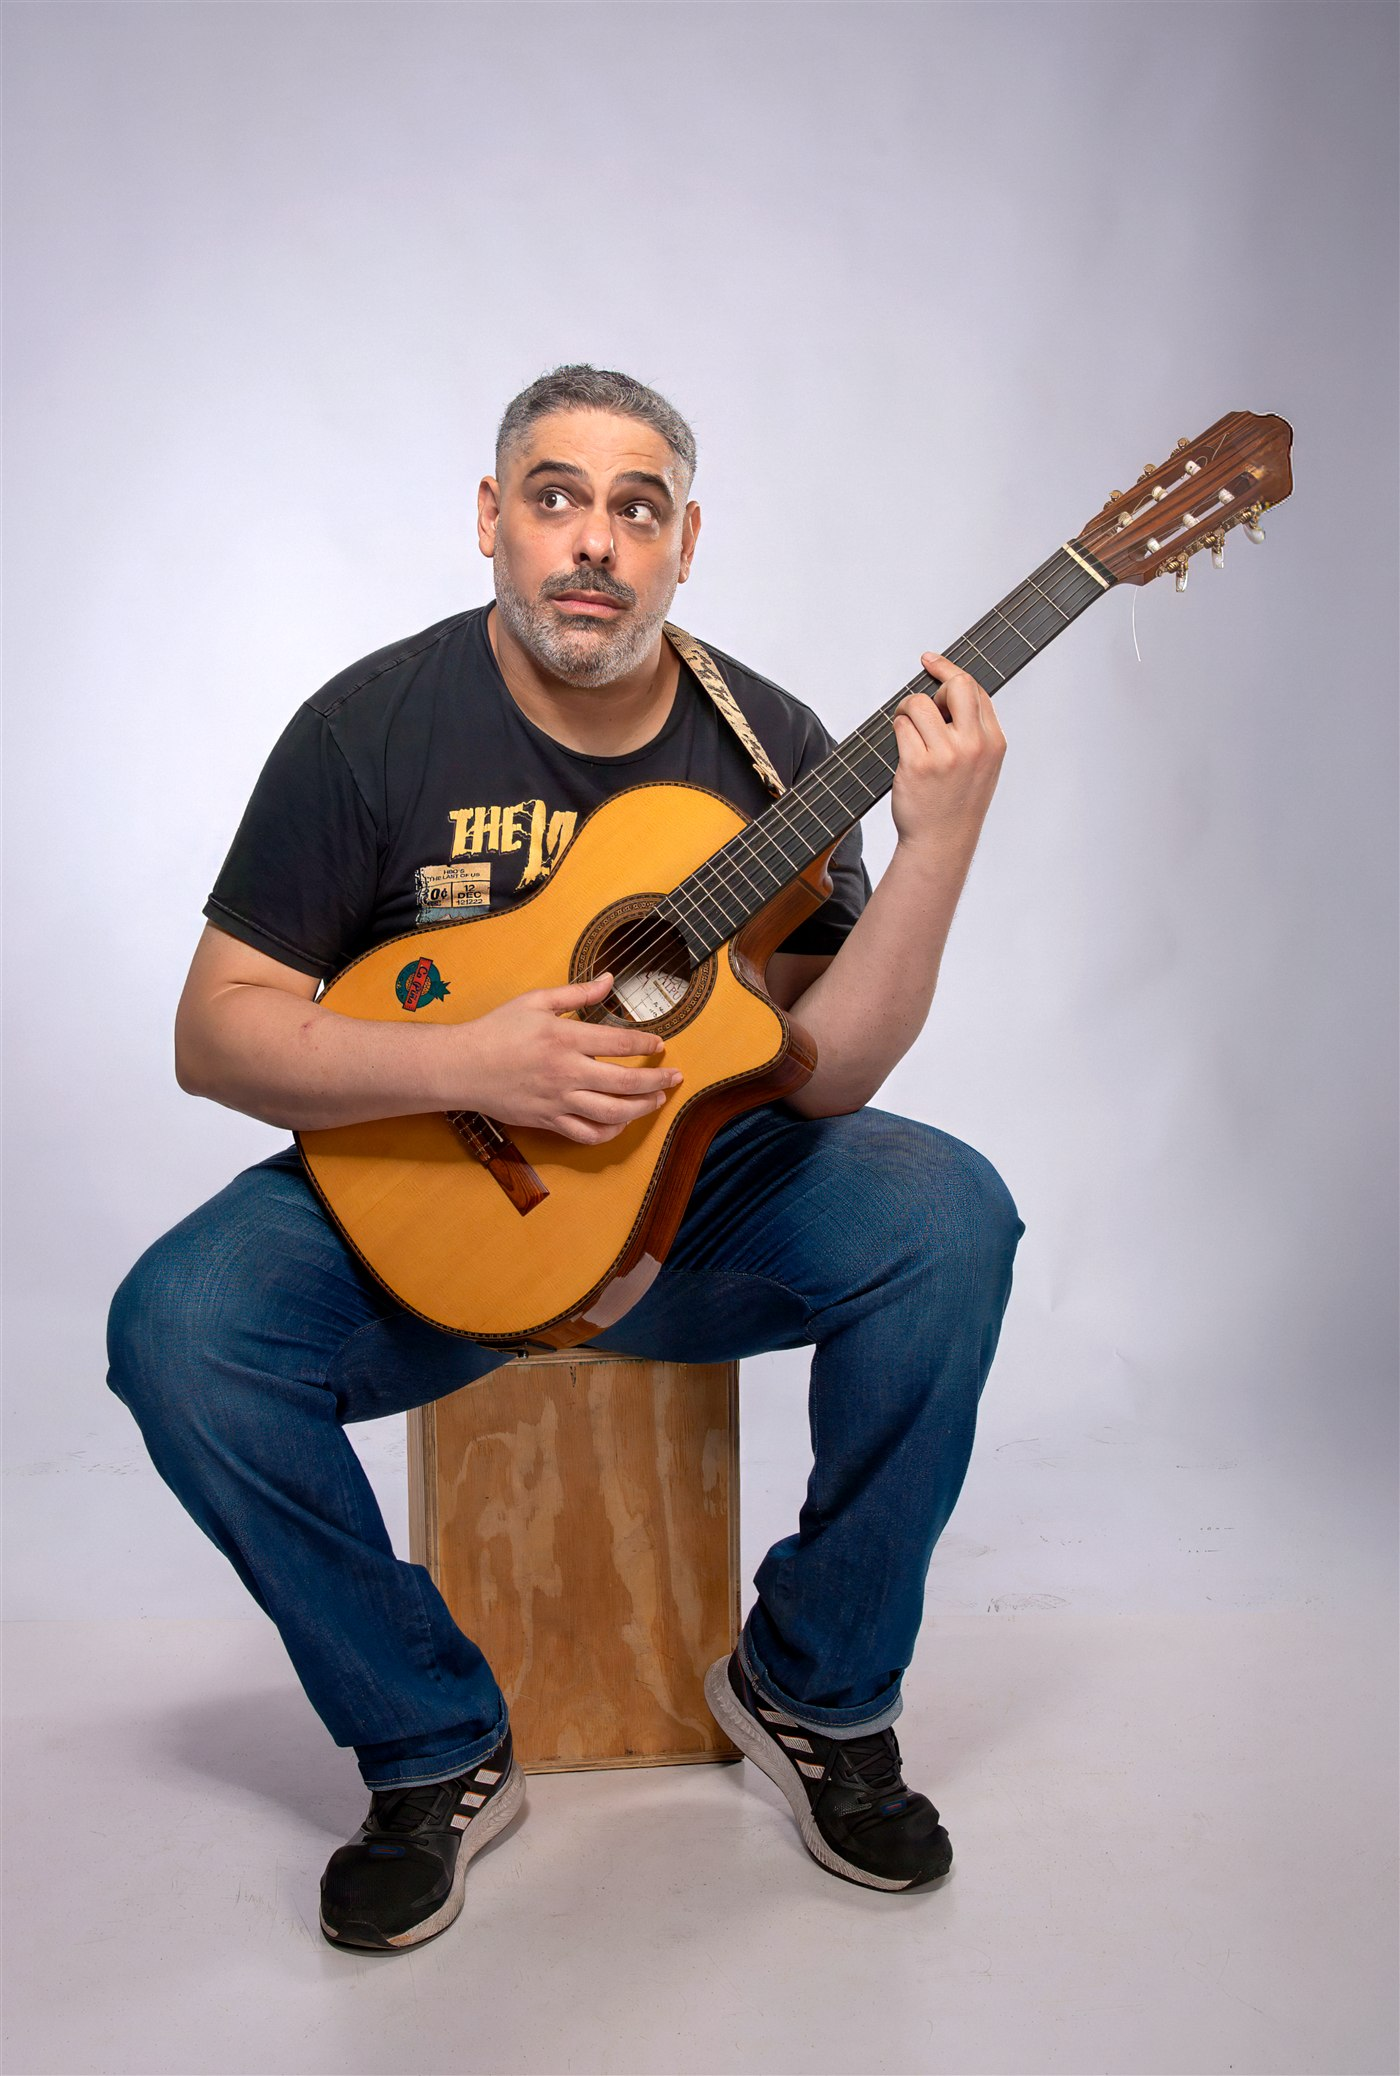
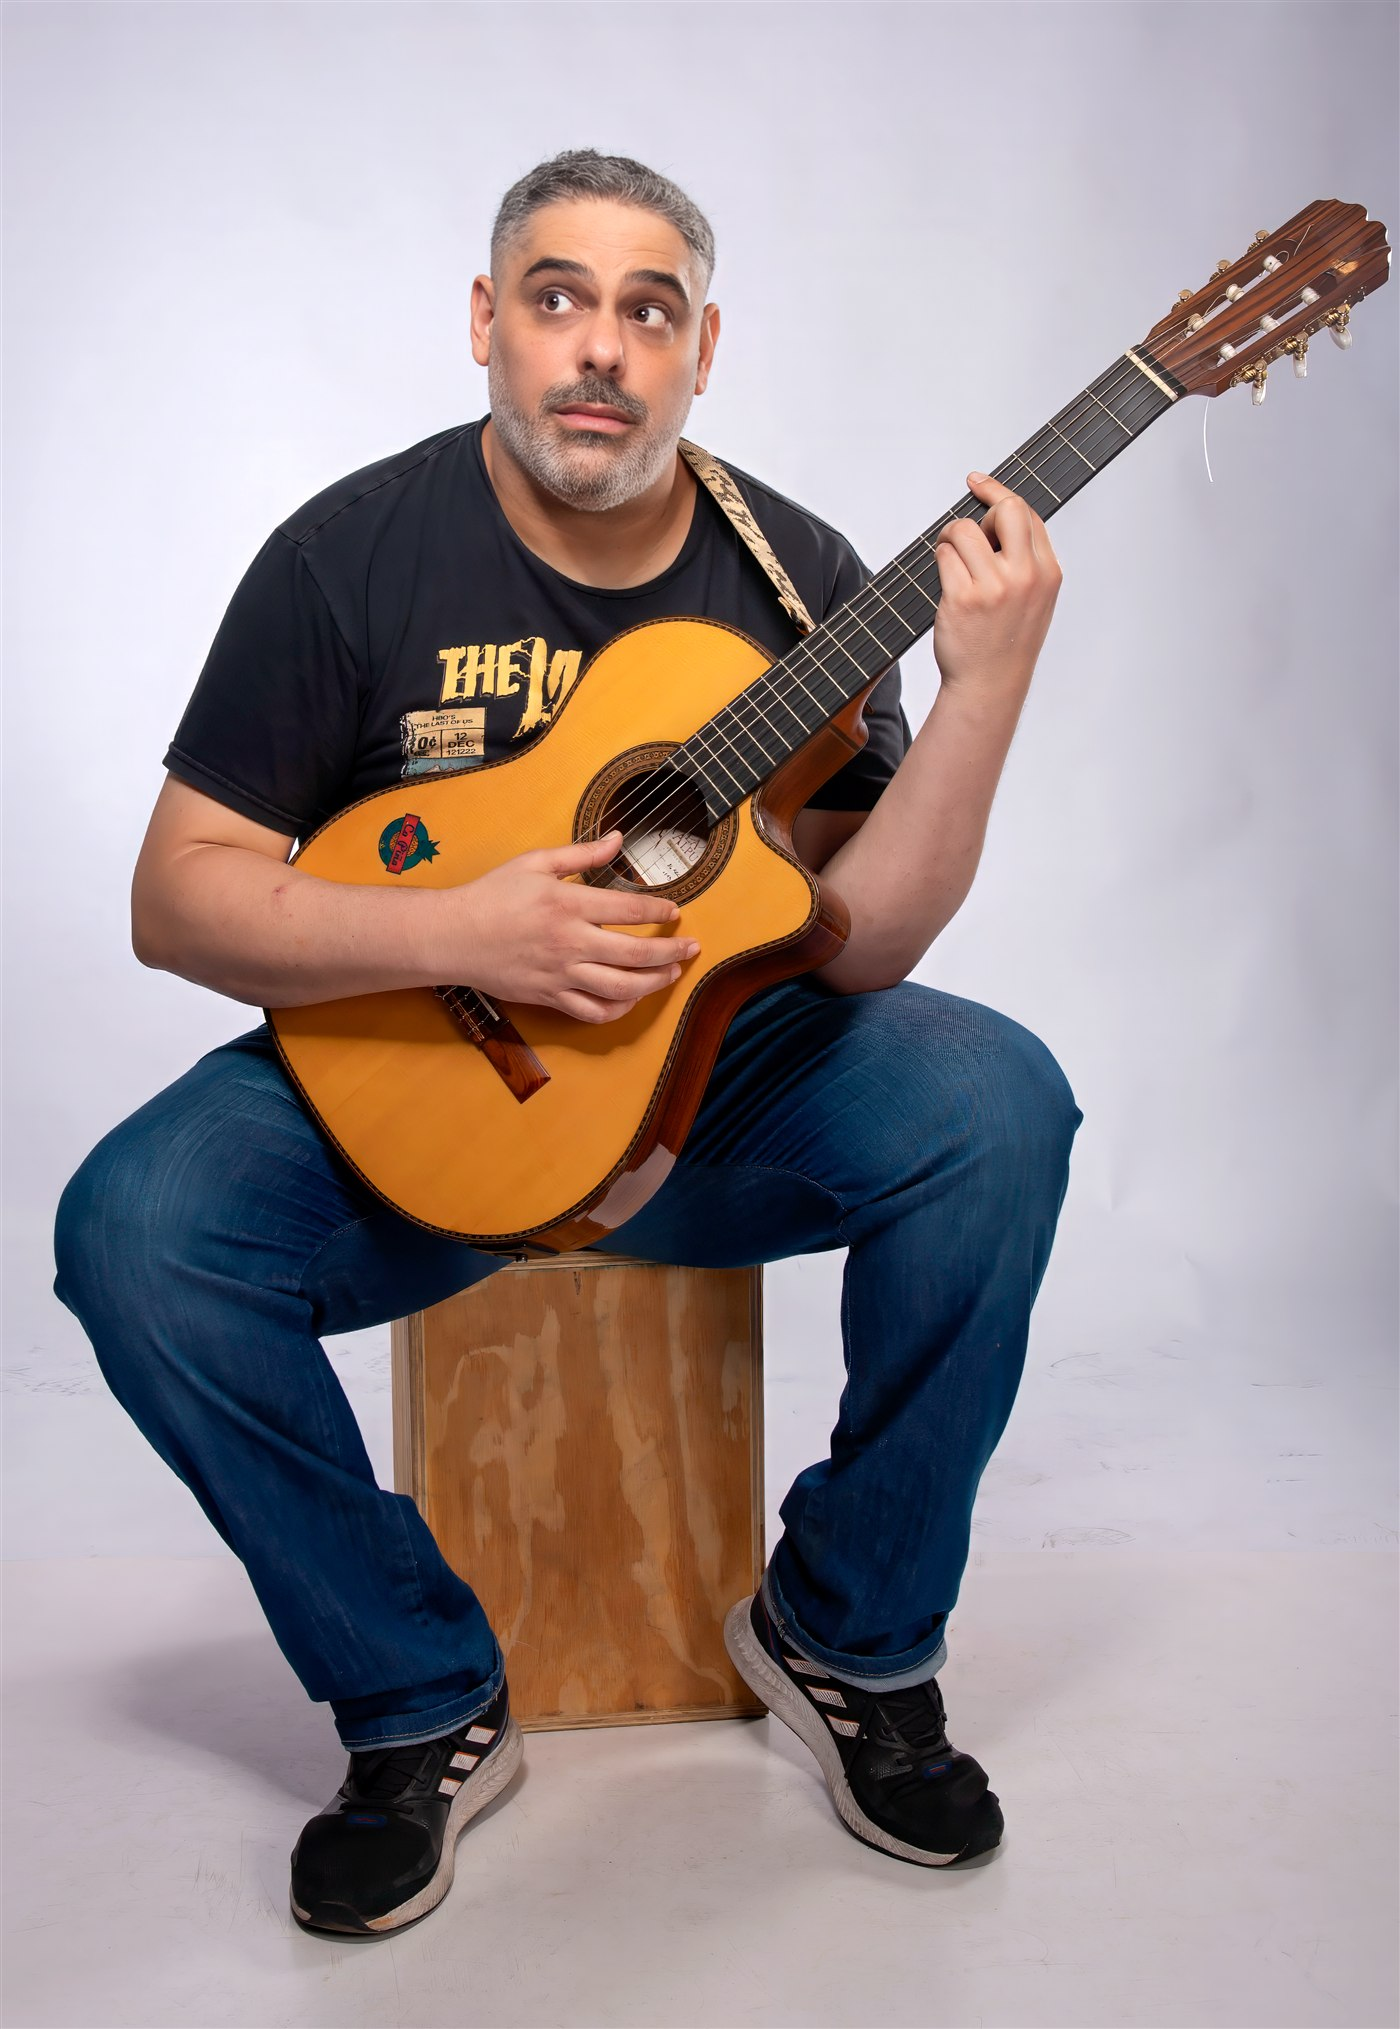
Actualiza la fotografía de portada

diff --git a/index.html b/index.html
@@ -240,7 +240,7 @@
     .hero-note { color:var(--muted); }
     .hero-art { height:650px; min-height:0; overflow:hidden; align-self:end; background:#d8d7dc; border-radius:180px 180px 14px 14px; }
     .hero-art::before { content:none; }
-    .hero-photo { width:100%; height:100%; max-width:100%; left:0; bottom:0; object-fit:cover; object-position:center 32%; filter:none; }
+    .hero-photo { width:100%; height:100%; max-width:100%; left:0; bottom:0; object-fit:cover; object-position:center 12%; filter:none; }
     .hero-stamp { display:none; }
     .ticker { color:var(--ink); background:var(--white); border-color:var(--line); }
     .ticker-track { width:100%; justify-content:center; animation:none; }
@@ -268,7 +268,7 @@
       .hero-copy { padding:3.25rem 0 1.5rem; }
       .hero-title { font-size:clamp(4rem,18vw,5.6rem); line-height:.78; }
       .hero-art { height:430px; min-height:430px; border-radius:110px 110px 8px 8px; }
-      .hero-photo { width:100%; left:0; object-position:center 30%; }
+      .hero-photo { width:100%; left:0; object-position:center 14%; }
       .ticker-track { display:grid; grid-template-columns:1fr; }
       .ticker span { padding:.7rem 1rem; text-align:center; }
       .ticker span:nth-child(n+2) { display:none; }
